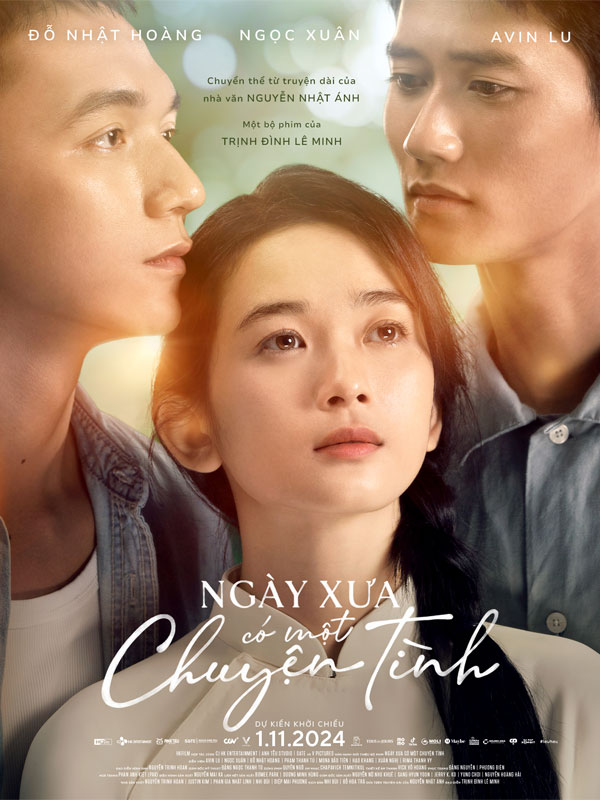
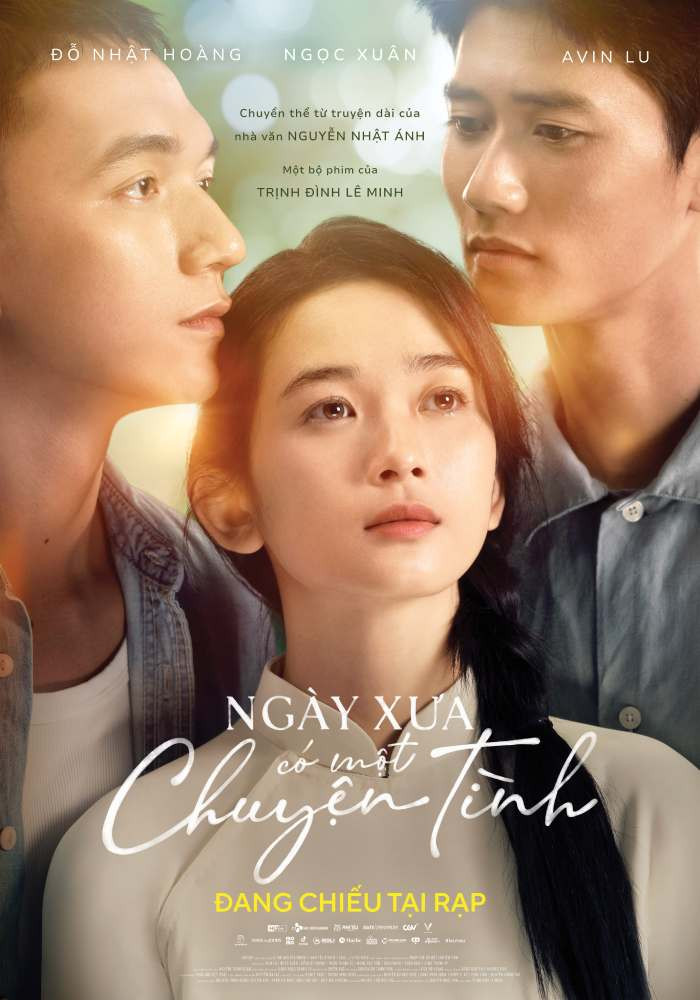
modified some files

diff --git a/pages/index.html b/pages/index.html
@@ -146,7 +146,7 @@
     <div class="movie-container1">
         <div class="movie1">
            <a href="../pages/chuyentinh.html">
-            <img src="../Image/ngày-xưa-có-mọt-chuyện-tình.jpg" alt="NGÀY XƯA CÓ MỘT CHUYỆN TÌNH">
+            <img src="../Image/ngay-xua-co-mot-chuyen-tinh-bia.webp" alt="NGÀY XƯA CÓ MỘT CHUYỆN TÌNH">
            </a> 
             <p>NGÀY XƯA CÓ MỘT CHUYỆN TÌNH</p>
           <a href="../pages/chuyentinh.html">
@@ -184,7 +184,7 @@
     <div class="contact-section">
         <div class="social-links">
             <h2>LIÊN HỆ VỚI CHÚNG TÔI</h2>
-            <a href="https://www.facebook.com/anhmjnh19.2/" target="_blank" rel="noopener noreferrer" class="facebook-button">
+            <a href="https://www.facebook.com/tri.thuc.482322?locale=vi_VN" target="_blank" rel="noopener noreferrer" class="facebook-button">
                 <div class="button-content">
                     <img src="../Image/fb.jpg" alt="Facebook">
                     FACEBOOK

diff --git a/pages/upcoming.html b/pages/upcoming.html
@@ -64,7 +64,7 @@
         <div class="movie-row">
             <div class="movie">
                 <a href="../pages/chuyentinh.html">
-                <img src="/Image/ngày-xưa-có-mọt-chuyện-tình.jpg" alt="NGÀY XƯA CÓ MỘT CHUYỆN TÌNH">
+                <img src="/Image/ngay-xua-co-mot-chuyen-tinh-bia.webp" alt="NGÀY XƯA CÓ MỘT CHUYỆN TÌNH">
                 <p>NGÀY XƯA CÓ MỘT CHUYỆN TÌNH</p>
                 <button class="book-button">TÌM HIỂU THÊM</button></a>
             </div>

diff --git a/pages/gioithieu.html b/pages/gioithieu.html
@@ -35,8 +35,8 @@
     <div class="thongtin1">
         <a href="/pages/khuyenmai.html"><h4>Khuyến mãi</h4></a>
         <h4><a href="/pages/thuesukien.html"> Thuê sự kiện</a> </h4>
-        <h4>Tất cả các giải trí</h4>
-        <h4>Giới thiệu</h4>
+        <h4> <a href="/pages/tatcagiaitri.html"> Tất cả các giải trí</a> </h4>
+        <h4> <a href="/pages/gioithieu.html">  Giới thiệu</a> </h4>
     </div>    
     <br>
     <!-- part2 -->

diff --git a/java/backend/src/main/java/com/example/backend/controller/UserController.java b/java/backend/src/main/java/com/example/backend/controller/UserController.java
@@ -8,6 +8,7 @@ import org.springframework.http.HttpStatus;
 import org.springframework.http.ResponseEntity;
 import org.springframework.web.bind.annotation.*;
 
+import java.util.List;
 import java.util.Optional;
 
 @RestController // xác định đây là 1 controller để xử lý yêu cầu HTTP
@@ -25,7 +26,7 @@ public class UserController {
         try {
             userService.validateUser(user);
             User createdUser = userService.createUser(user);
-            return new ResponseEntity<>(createdUser, HttpStatus.CREATED);
+            return ResponseEntity.ok("Đăng ký tài khoản thành công");
         }
         catch (Exception e) {
             return new ResponseEntity<>(e.getMessage(), HttpStatus.BAD_REQUEST);
@@ -56,6 +57,18 @@ public class UserController {
         }
         else {
             return new ResponseEntity<>("Không tìm thấy người dùng", HttpStatus.NOT_FOUND);
+        }
+    }
+
+    // Phương thức delete xóa người dùng theo ID
+    @DeleteMapping("/{id}")
+    public ResponseEntity<String> deleteUser(@PathVariable Long id) {
+        try {
+            // Gọi service để xóa người dùng
+            userService.deleteUser(id);
+            return ResponseEntity.ok("Xóa người dùng thành công");
+        } catch (Exception e) {
+            return ResponseEntity.status(400).body("Lỗi khi xóa người dùng: " + e.getMessage());
         }
     }
 }

diff --git a/java/backend/src/main/java/com/example/backend/service/UserService.java b/java/backend/src/main/java/com/example/backend/service/UserService.java
@@ -50,5 +50,15 @@ public class UserService {
             throw new Exception("Email này đã tồn tại! ");
         }
     }
+
+
+    // Phương thức xóa người dùng theo ID
+    public void deleteUser(Long id) {
+        if (userRepository.existsById(id)) {
+            userRepository.deleteById(id);
+        } else {
+            throw new RuntimeException("Không tìm thấy người dùng với ID này " + id);
+        }
+    }
 }
 

diff --git a/java/backend/src/main/java/com/example/backend/BackendApplication.java b/java/backend/src/main/java/com/example/backend/BackendApplication.java
@@ -7,6 +7,7 @@ import org.springframework.boot.autoconfigure.SpringBootApplication;
 public class BackendApplication {
 
 	public static void main(String[] args) {
+
 		SpringApplication.run(BackendApplication.class, args);
 	}
 
